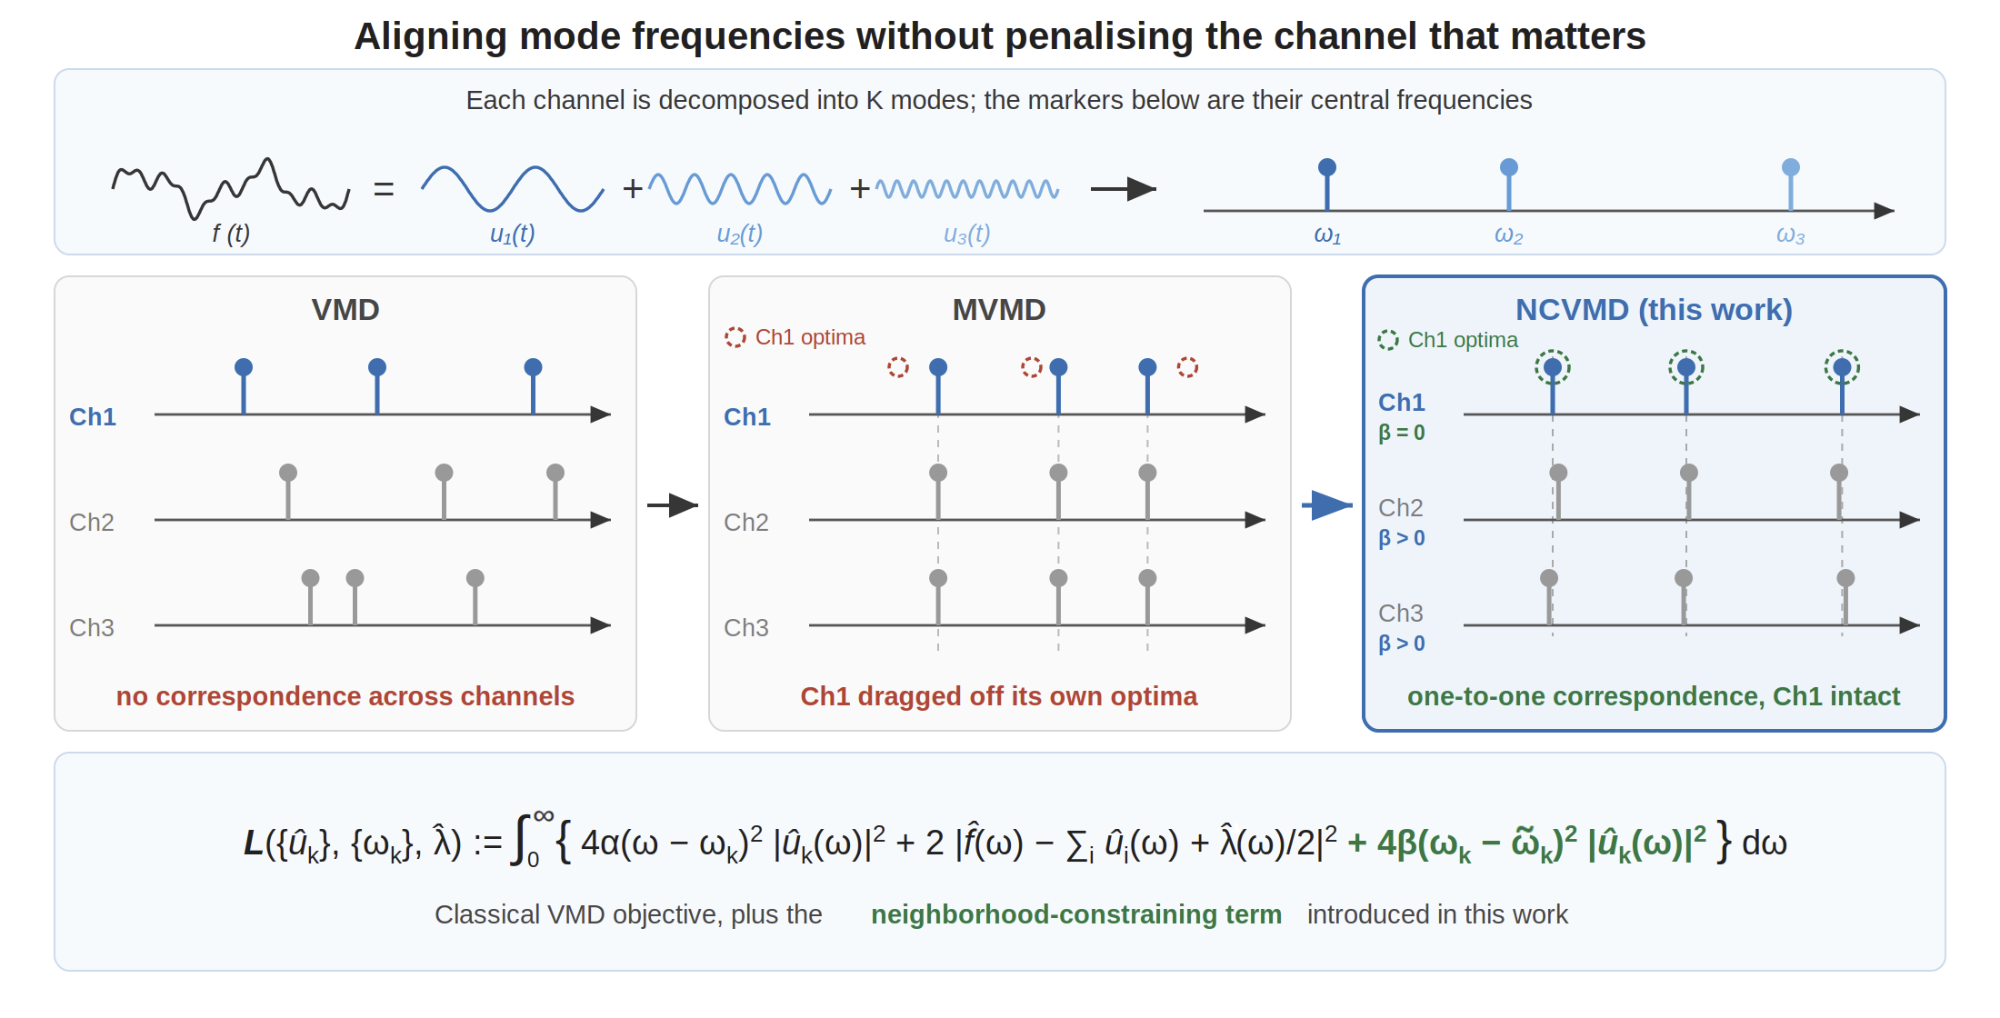
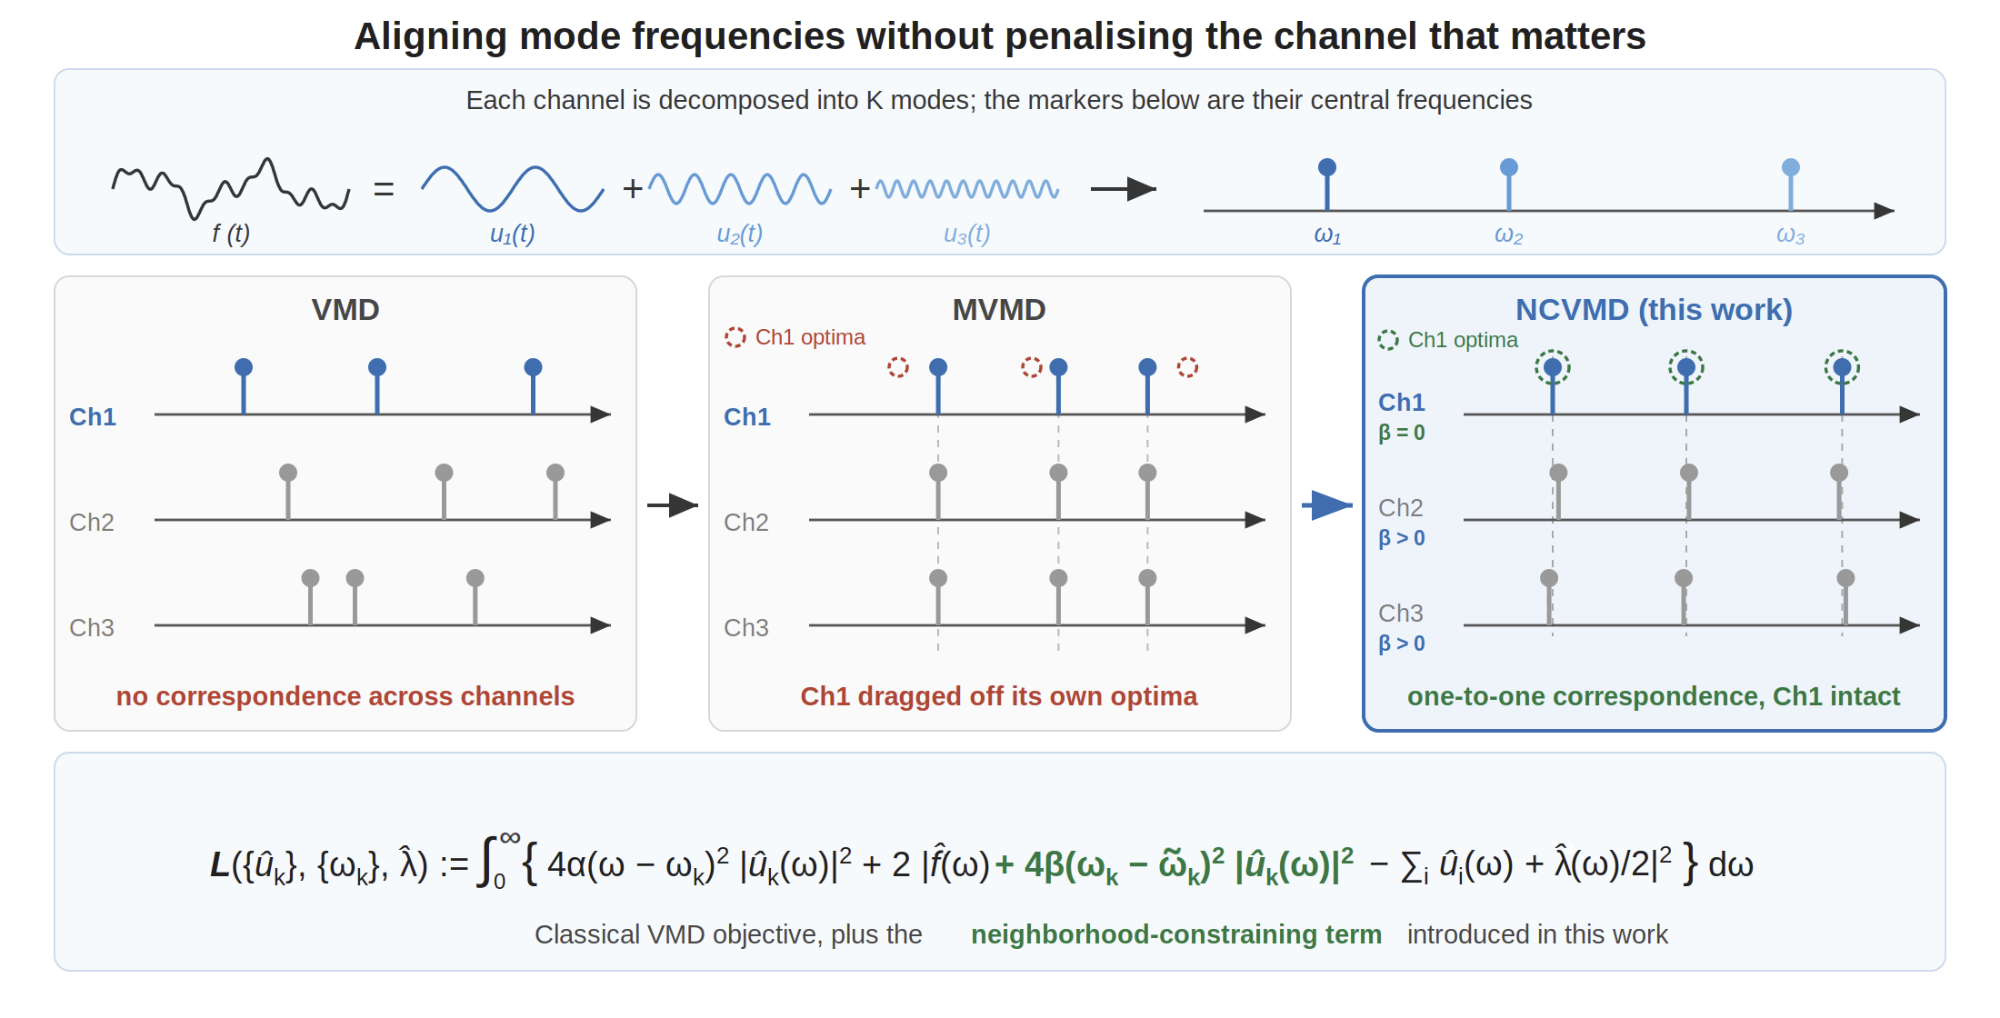
Update graphic abstract and clarify Paolo Fazzini authorship

Changed region(s): [[0.093, 0.7917, 0.899, 0.944]]

diff --git a/README.md b/README.md
@@ -6,9 +6,9 @@ No electric-load datasets or external data files are required.
 
 ## Author and license
 
-This repository is maintained by **Paolo Fazzini**. Unless noted otherwise in individual files, code is released under the **[MIT License](LICENSE)** (permissive use, modification, and redistribution with attribution and license notice).
+**Copyright © Paolo Fazzini.** All code in this repository is authored by **Paolo Fazzini**, released under the **[MIT License](LICENSE)** (permissive use, modification, and redistribution with attribution and license notice).
 
-The VMD implementations in `VMD_pers.py` and `VMD_extended.py` build on the Python VMD code by Vinícius Rezende Carvalho (see file headers and cite Dragomiretskiy & Zosso, 2014, when using standard VMD). NCVMD, VMDMS-related code, MVMD integration, and this supplement layout are part of this repository’s contributions.
+The VMD core in `VMD_pers.py` and `VMD_extended.py` extends the Python implementation by Vinícius Rezende Carvalho (see file headers; cite Dragomiretskiy & Zosso, 2014, for standard VMD). **NCVMD**, **VMDMS**-related modules, **MVMD** integration, tests, and this repository layout are original contributions by Paolo Fazzini.
 
 ## NCVMD at a glance
 
